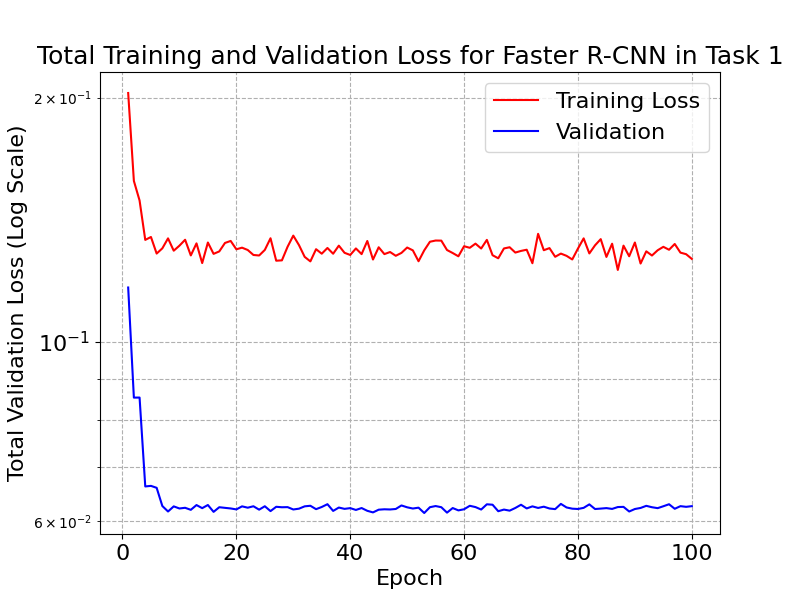
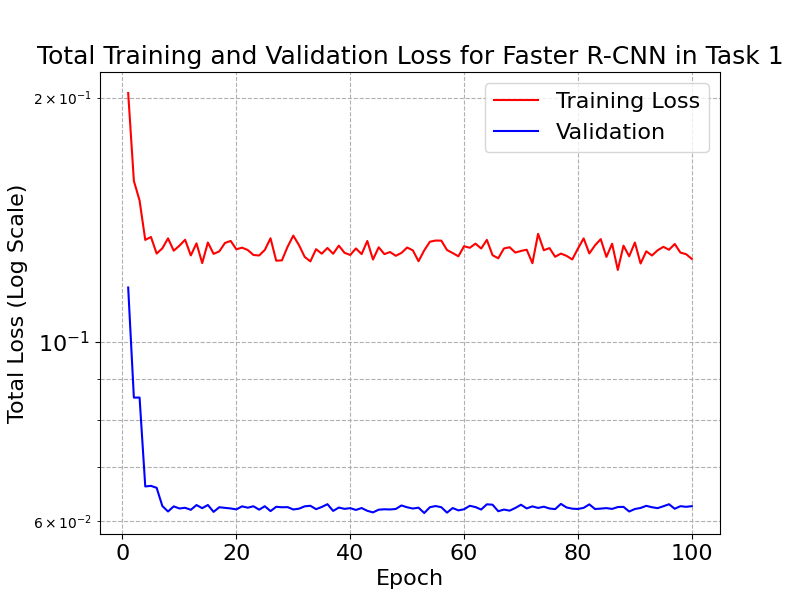
Training and plotting

Changed region(s): [[0.0, 0.21, 0.0312, 0.81]]

diff --git a/7_plot_total_losses.py b/7_plot_total_losses.py
@@ -72,7 +72,7 @@ for nn in range(1,3):
     plt.yscale('log')  # Set logarithmic scale for y-axis
     plt.title(f'Total Training and Validation Loss for Faster R-CNN in Task {nn}', fontsize=font_size + 2)
     plt.xlabel('Epoch', fontsize=font_size)
-    plt.ylabel('Total Validation Loss (Log Scale)', fontsize=font_size)
+    plt.ylabel('Total Loss (Log Scale)', fontsize=font_size)
     plt.tick_params(axis='both', labelsize=font_size)  # Tick labels
     plt.grid(True, which="both", ls="--")  # Grid for both major and minor ticks
     plt.legend(fontsize=font_size)
